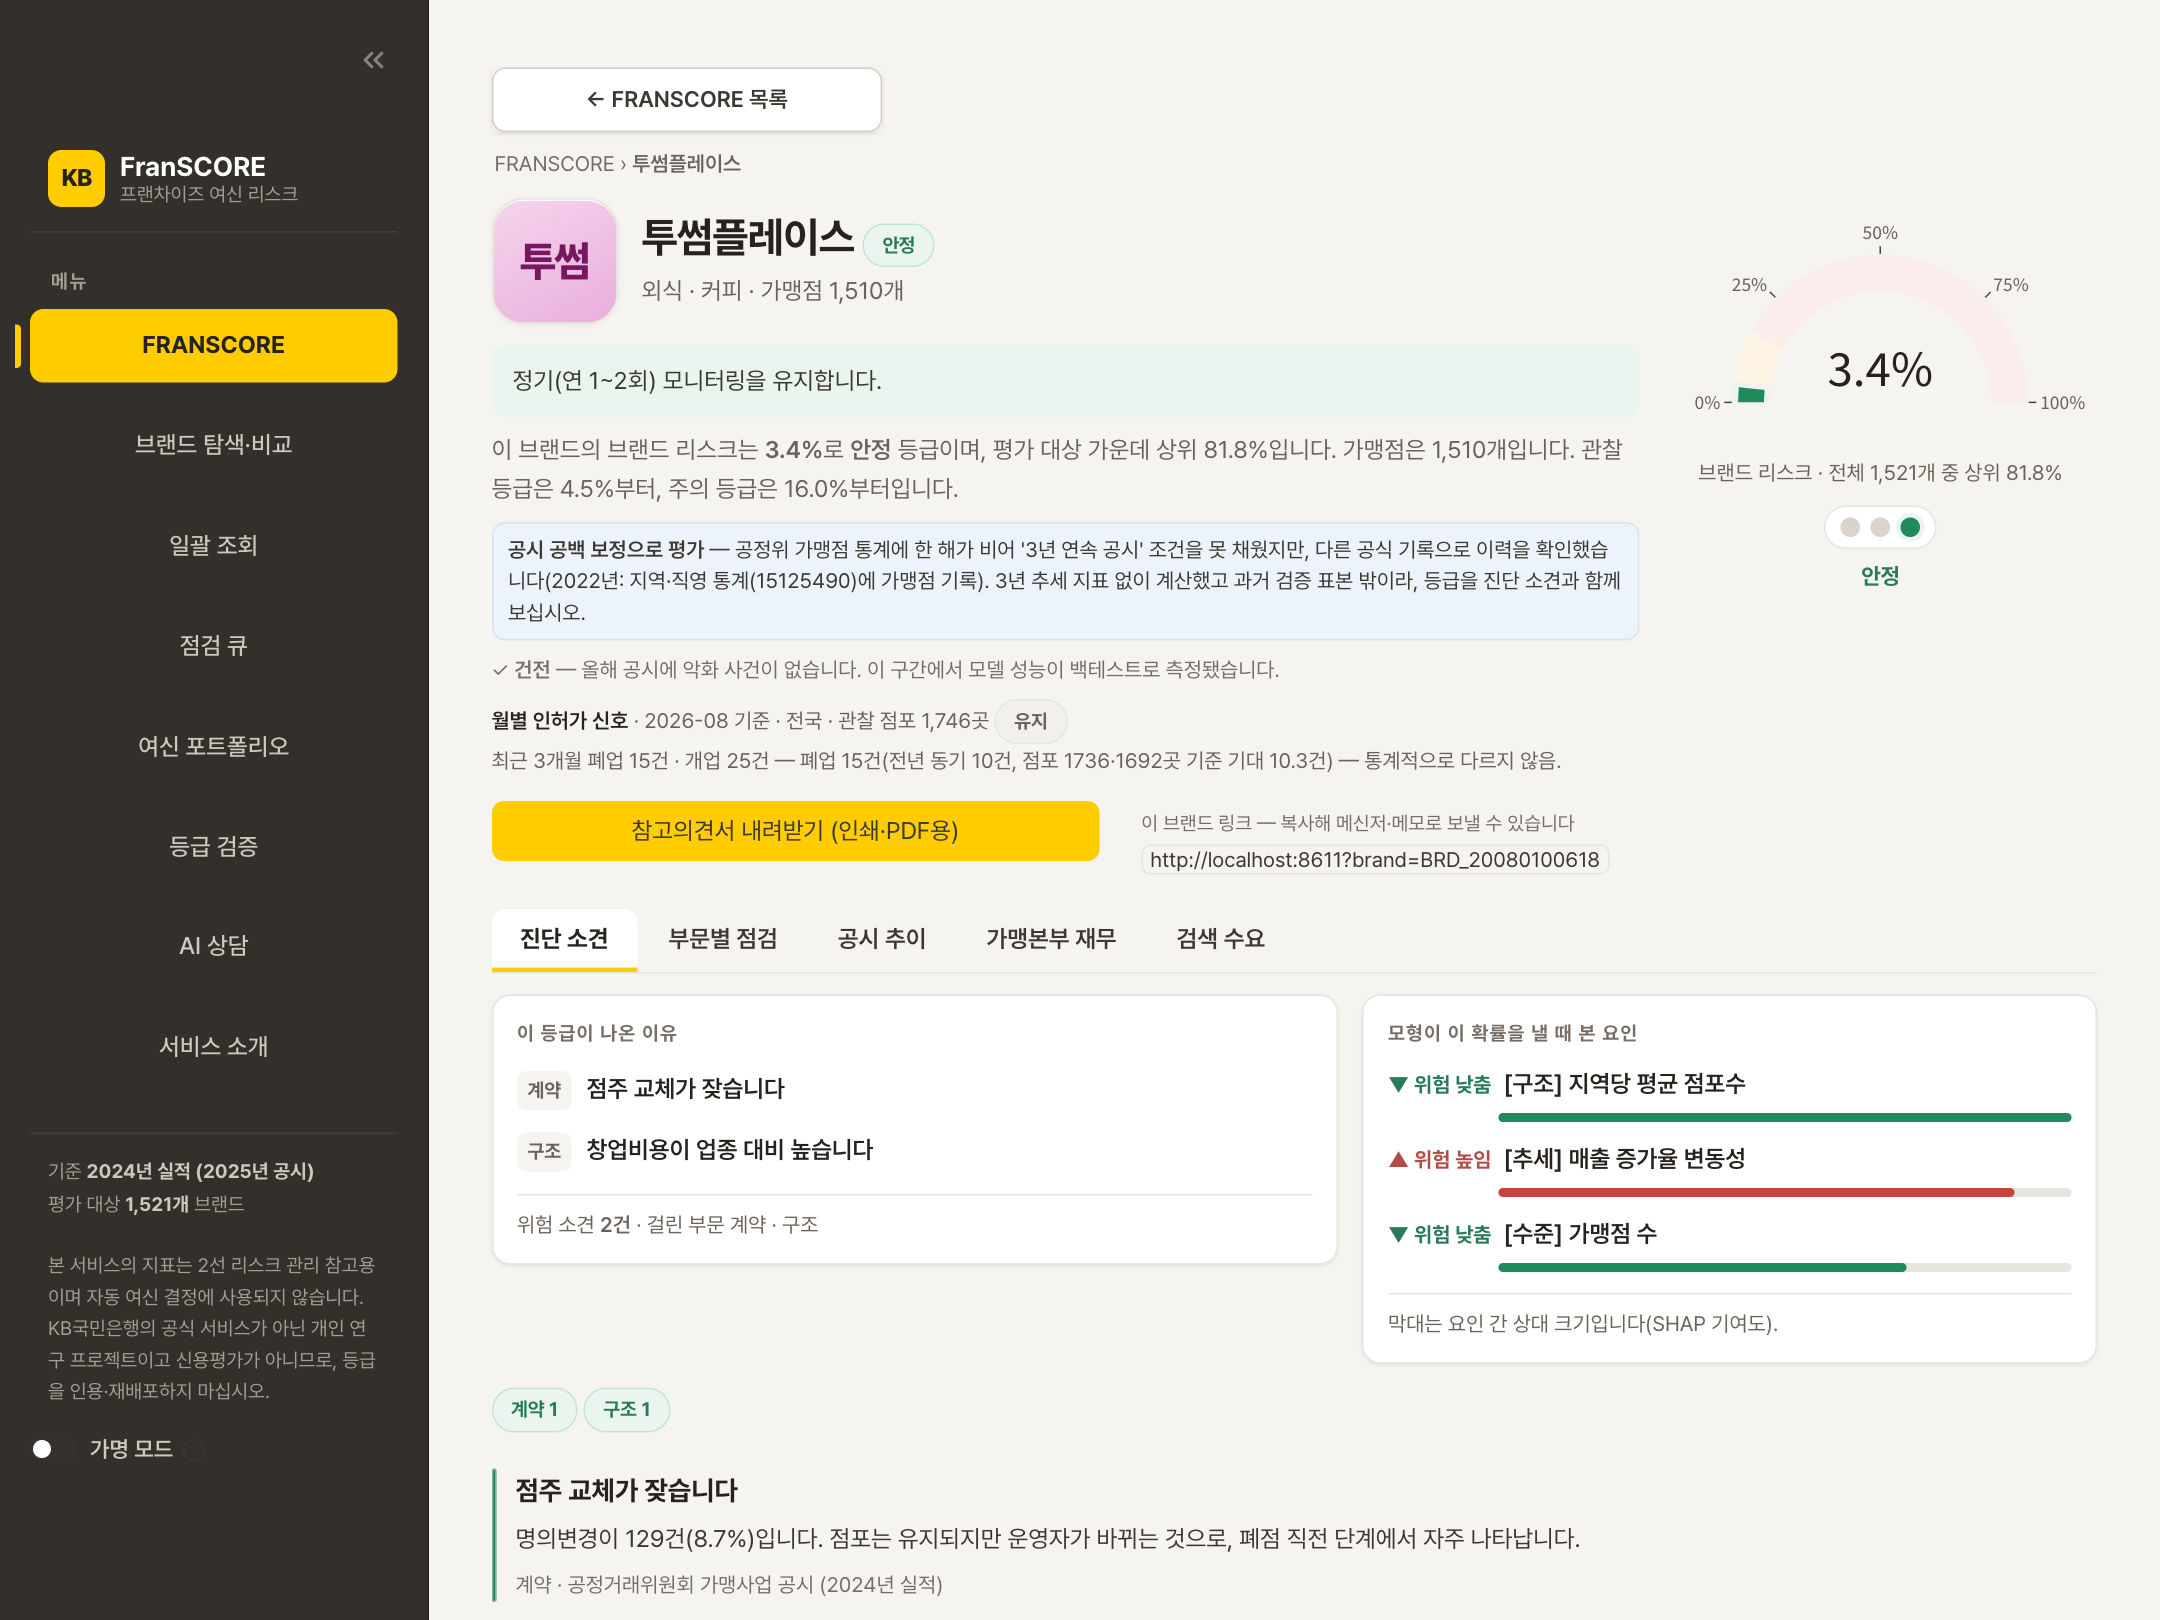
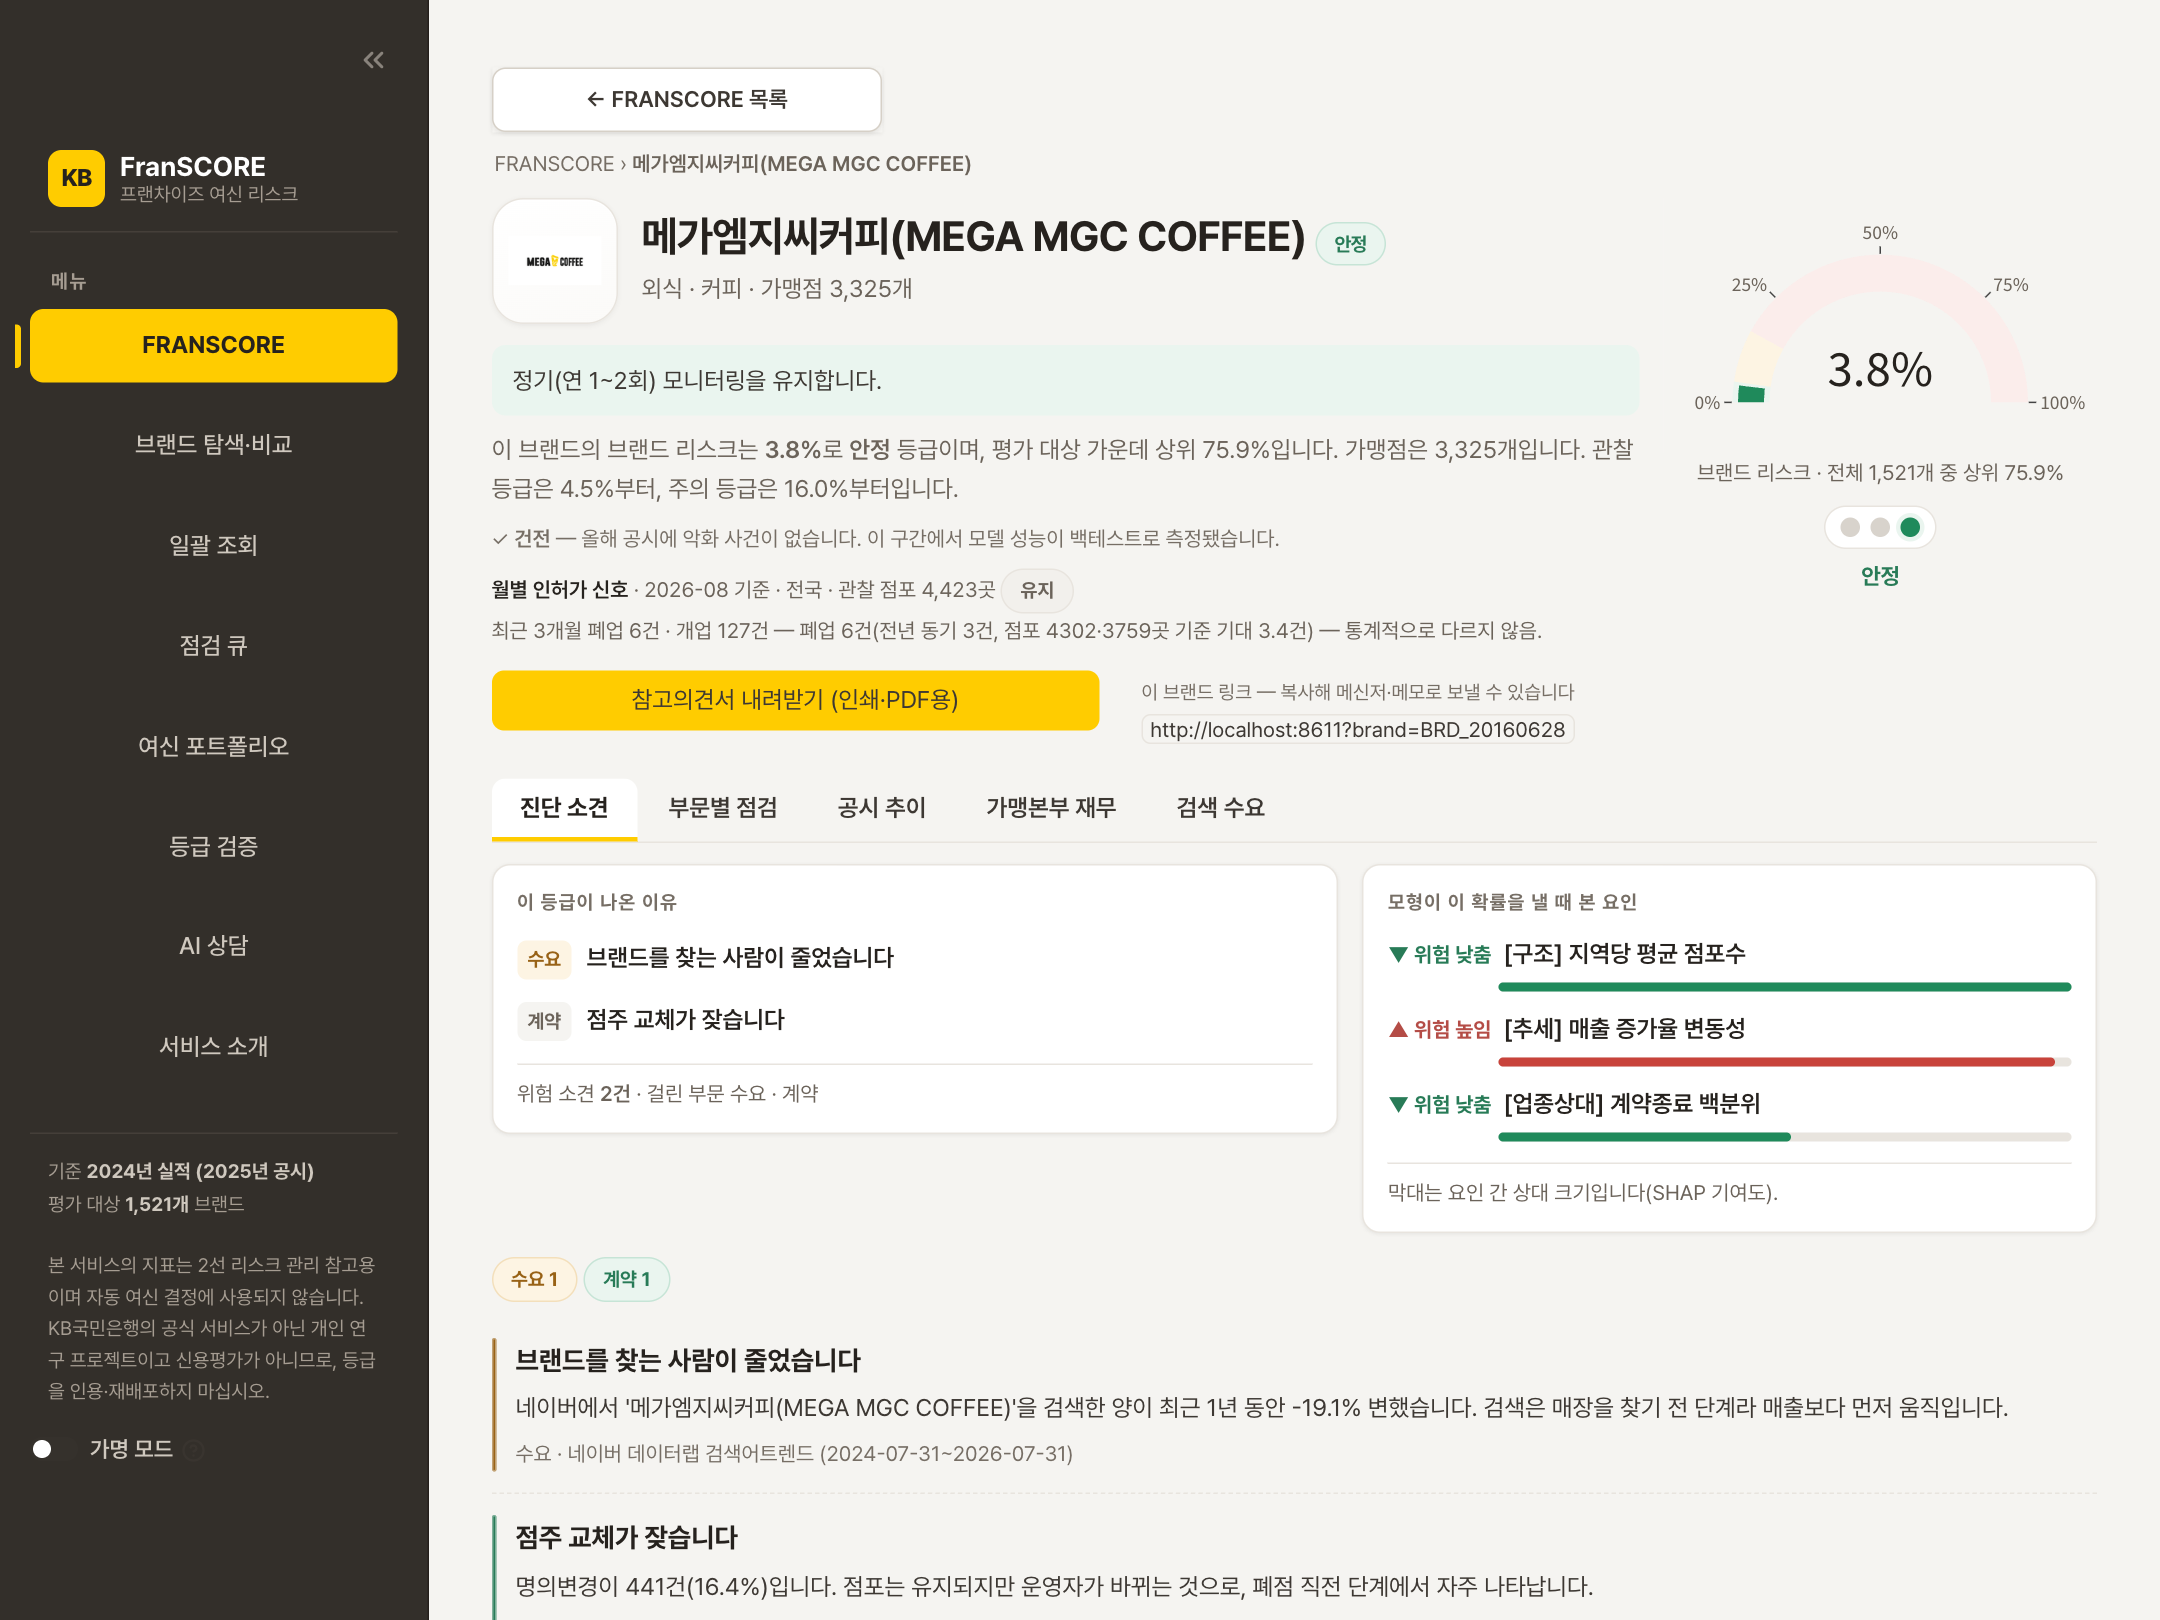
README 첫 화면을 알아보기 쉬운 브랜드 상세로 교체
썸네일이 '지금 봐야 할 브랜드'(주의 등급 순)라 처음 보는 사람에게 낯선 브랜드만 보였다.
가맹점 3,325개 브랜드의 상세 화면으로 바꿔 등급·근거 소견·모형 요인·월별 신호가 한눈에
들어오게 했다. 기존 현황 화면은 화면 표 첫 칸으로 옮겼다.

diff --git a/README.md b/README.md
@@ -1,6 +1,8 @@
 <div align="center">
 
-<img src="assets/screenshots/franscore-main.png" alt="FranSCORE — 프랜차이즈 브랜드 리스크 현황 화면" width="860"/>
+<img src="assets/screenshots/brand-detail.png" alt="FranSCORE 브랜드 상세 화면 — 가맹점 3,325개 브랜드의 등급·브랜드 리스크·월별 인허가 신호·진단 소견·모형 요인(SHAP)" width="860"/>
+
+<sub>브랜드 하나를 열면 보이는 화면 — 등급과 그 근거, 모형이 본 요인, 공시 사이의 월별 폐점 신호까지</sub>
 
 # 🏦 FranSCORE — 가맹점 여신에 '브랜드' 리스크 축을 더하다
 
@@ -88,7 +90,7 @@
 
 <table>
 <tr>
-<td width="50%"><img src="assets/screenshots/brand-detail.png" alt="브랜드 상세 화면"/><br/><b>브랜드 상세</b> — 등급·근거 소견·모형 요인(SHAP)·월별 폐점 신호·공시 추이·본부 재무. 공시 공백 보정 브랜드는 그 근거를 함께 표시</td>
+<td width="50%"><img src="assets/screenshots/franscore-main.png" alt="FRANSCORE 현황 화면"/><br/><b>FRANSCORE 현황</b> — 평가한 1,521개 브랜드의 등급 분포와 '지금 봐야 할 브랜드' 우선순위. 이름을 치면 통칭·동명까지 찾아 그 자리에서 상세로 들어갑니다</td>
 <td width="50%"><img src="assets/screenshots/batch-screening.png" alt="일괄 조회 화면"/><br/><b>일괄 조회</b> — 신청 목록 업로드 → 브랜드 자동 매칭(통칭·동명 구분) → 등급·중대 신호·확인 서류, 사업자번호가 있으면 국세청 휴·폐업까지 붙여 엑셀 반출</td>
 </tr>
 <tr>
